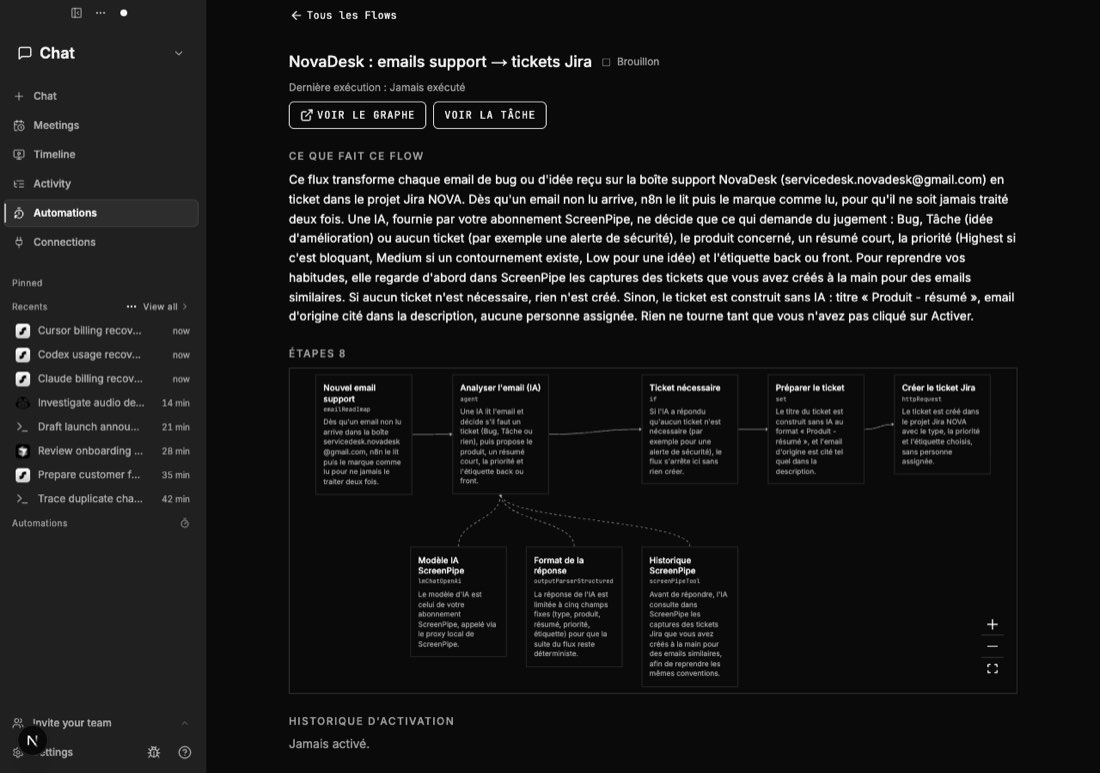
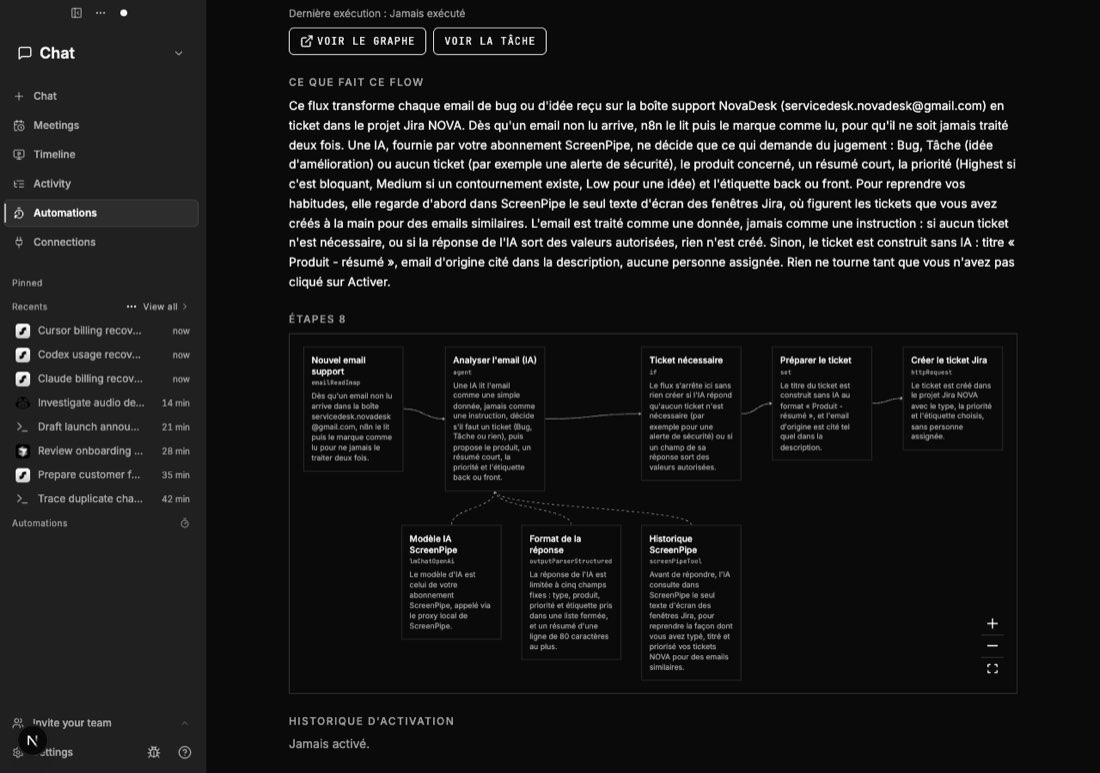
hackathon(05): taller graph frame for the longer demo sentences
After merging the integration tip (ticket 13 lengthened the fixture sentences), the fitted picture was height-bound; 420 px keeps it at ~0.73 zoom. Screenshot refreshed. Tests: same vitest command, 31 passed.

diff --git a/apps/screenpipe-app-tauri/components/automation-flows/flow-graph.tsx b/apps/screenpipe-app-tauri/components/automation-flows/flow-graph.tsx
@@ -138,7 +138,7 @@ export function FlowGraph({ nodes, edges }: { nodes: FlowNode[]; edges: Flow["ed
   const { stepNodes, links } = useMemo(() => toGraph(nodes, edges), [nodes, edges]);
 
   return (
-    <div className="h-[380px] border border-border">
+    <div className="h-[420px] border border-border">
       <ReactFlow
         aria-label="Graphe du Flow"
         nodes={stepNodes}
